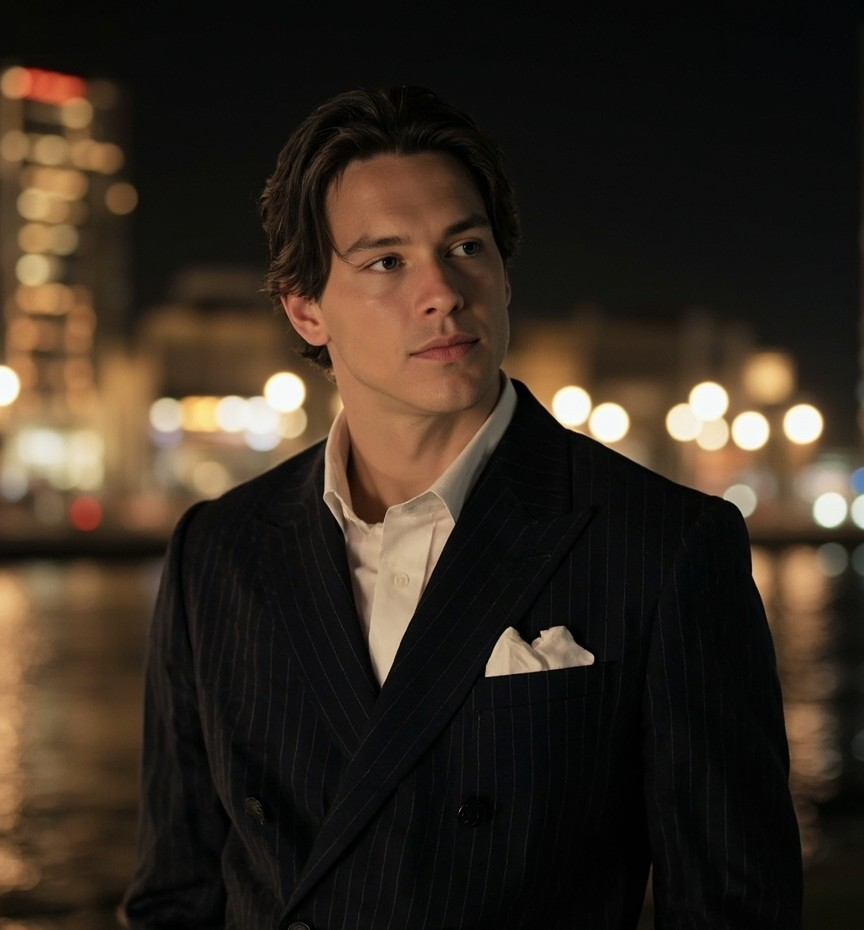
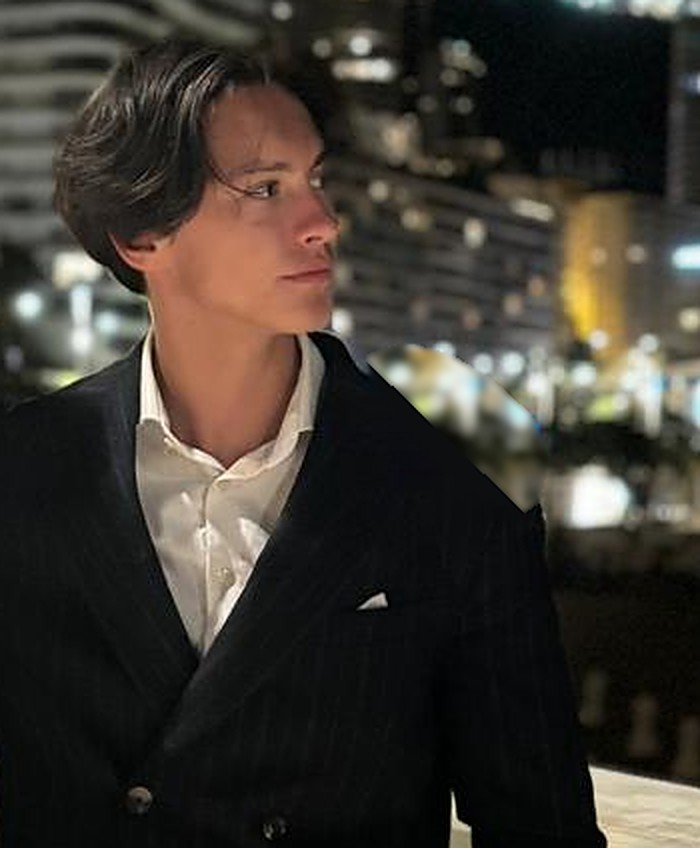
Every industry, the real portrait of Sondre, and an industry image

diff --git a/index.html b/index.html
@@ -62,7 +62,7 @@
   .bilete-kort { position: relative; border-radius: 22px; overflow: hidden; aspect-ratio: 4/5; box-shadow: 0 30px 80px rgba(0,0,0,.5); }
   .bilete-kort img { width: 100%; height: 100%; object-fit: cover; transform: scale(1.06); transition: transform 1.6s ease; }
   .bilete-kort:hover img { transform: scale(1.12); }
-  .bilete-kort.portrett { aspect-ratio: 864/930; }
+  .bilete-kort.portrett { aspect-ratio: 700/848; }
   .bilete-kort.portrett img { object-position: center top; transform: scale(1.02); }
   .bilete-kort.portrett:hover img { transform: scale(1.06); }
   .bilete-kort figcaption .tittel { display: block; font-size: 12px; letter-spacing: .2em; text-transform: uppercase; color: var(--teal); margin-bottom: 2px; }
@@ -76,13 +76,16 @@
   .kort h3 { margin: 10px 0 8px; font-size: 20px; }
   .kort p { margin: 0; color: var(--svak); }
 
+  .bransjar { display: flex; flex-wrap: wrap; gap: 10px; margin-top: 26px; }
+  .bransjar span { padding: 8px 16px; border-radius: 999px; border: 1px solid var(--kant); background: var(--kort); color: #dbe7e6; font-size: 15px; }
+  .bransjar span:last-child { border-color: rgba(47,181,166,.5); color: var(--teal); }
   .to { display: grid; grid-template-columns: 1fr 1fr; gap: 18px; margin-top: 34px; }
   .djup { background: var(--djup); }
   .tillit { display: grid; grid-template-columns: auto 1fr; gap: 22px; align-items: start; max-width: 760px; }
   .ikon { width: 52px; height: 52px; border-radius: 14px; display: grid; place-items: center; background: rgba(95,208,217,.12); color: var(--sjo); }
 
   .kontakt { text-align: center; padding: 120px 0 130px; background:
-             linear-gradient(180deg, rgba(7,18,22,.92), rgba(7,18,22,.55) 45%, rgba(7,18,22,.92)), url(fjord.jpg) center/cover no-repeat; }
+             linear-gradient(180deg, rgba(7,18,22,.92), rgba(7,18,22,.55) 45%, rgba(7,18,22,.92)), url(industri.jpg) center/cover no-repeat; }
   .kontakt h2 { max-width: 18ch; margin-left: auto; margin-right: auto; }
   .kontakt .knapp { margin-top: 14px; }
 
@@ -134,12 +137,12 @@
     <div class="kjem">
       <div class="merke">Hello</div>
       <h2>Nice to meet you. I'm Sondre.</h2>
-      <p>I'm based in Bergen on the west coast of Norway. I follow public contract awards across Europe and beyond. When a company wins a contract, I ask whether they need suppliers or subcontractors for the job, and if they do, I go looking for companies that can deliver.</p>
-      <p>I also help Norwegian suppliers to the fish-farming industry find customers abroad. I have a trade certificate in aquaculture, so I know what the work on the water looks like.</p>
+      <p>I'm based in Bergen on the west coast of Norway. I follow public contract awards across Europe and beyond, in every industry. When a company wins a contract, I ask whether they need suppliers or subcontractors for the job, and if they do, I go looking for companies that can deliver.</p>
+      <p>Before Indokalo I worked in fish farming, and I have a trade certificate in aquaculture. I know from the inside how much a job depends on the right supplier.</p>
       <p class="sitat">One person, one inbox, and a straight answer.</p>
     </div>
     <figure class="bilete-kort portrett kjem">
-      <img src="sondre.jpg" alt="Sondre Franco Grimen in a dark pinstripe suit by the water at night" loading="lazy">
+      <img src="sondre.jpg" alt="Sondre Franco Grimen in a dark pinstripe suit at night" loading="lazy">
       <figcaption><span class="tittel">Founder</span> Sondre Franco Grimen</figcaption>
     </figure>
   </div>
@@ -163,11 +166,16 @@
   <div class="innhald">
     <div class="kjem">
       <div class="merke">Who I help</div>
-      <h2>Two kinds of companies.</h2>
+      <h2>Every industry.</h2>
+    </div>
+    <div class="bransjar kjem">
+      <span>Construction</span><span>Oil &amp; gas</span><span>Energy</span><span>Maritime</span><span>Transport &amp; logistics</span>
+      <span>IT &amp; tech</span><span>Facilities &amp; cleaning</span><span>Manufacturing</span><span>Healthcare</span><span>Public works</span>
+      <span>Aquaculture</span><span>And anything else a job needs</span>
     </div>
     <div class="to">
       <div class="kort kjem"><h3>You just won a contract</h3><p>Well done. If the job needs something you don't have, tell me what is missing and I'll find companies that can supply it.</p></div>
-      <div class="kort kjem"><h3>You supply the fish-farming industry</h3><p>I talk to fish farms and service companies abroad about what they need, and pass on the enquiries that fit your company.</p></div>
+      <div class="kort kjem"><h3>You sell to other companies</h3><p>Whatever you make or deliver, equipment, materials or services, I pass on enquiries from companies that need it.</p></div>
     </div>
   </div>
 </section>
